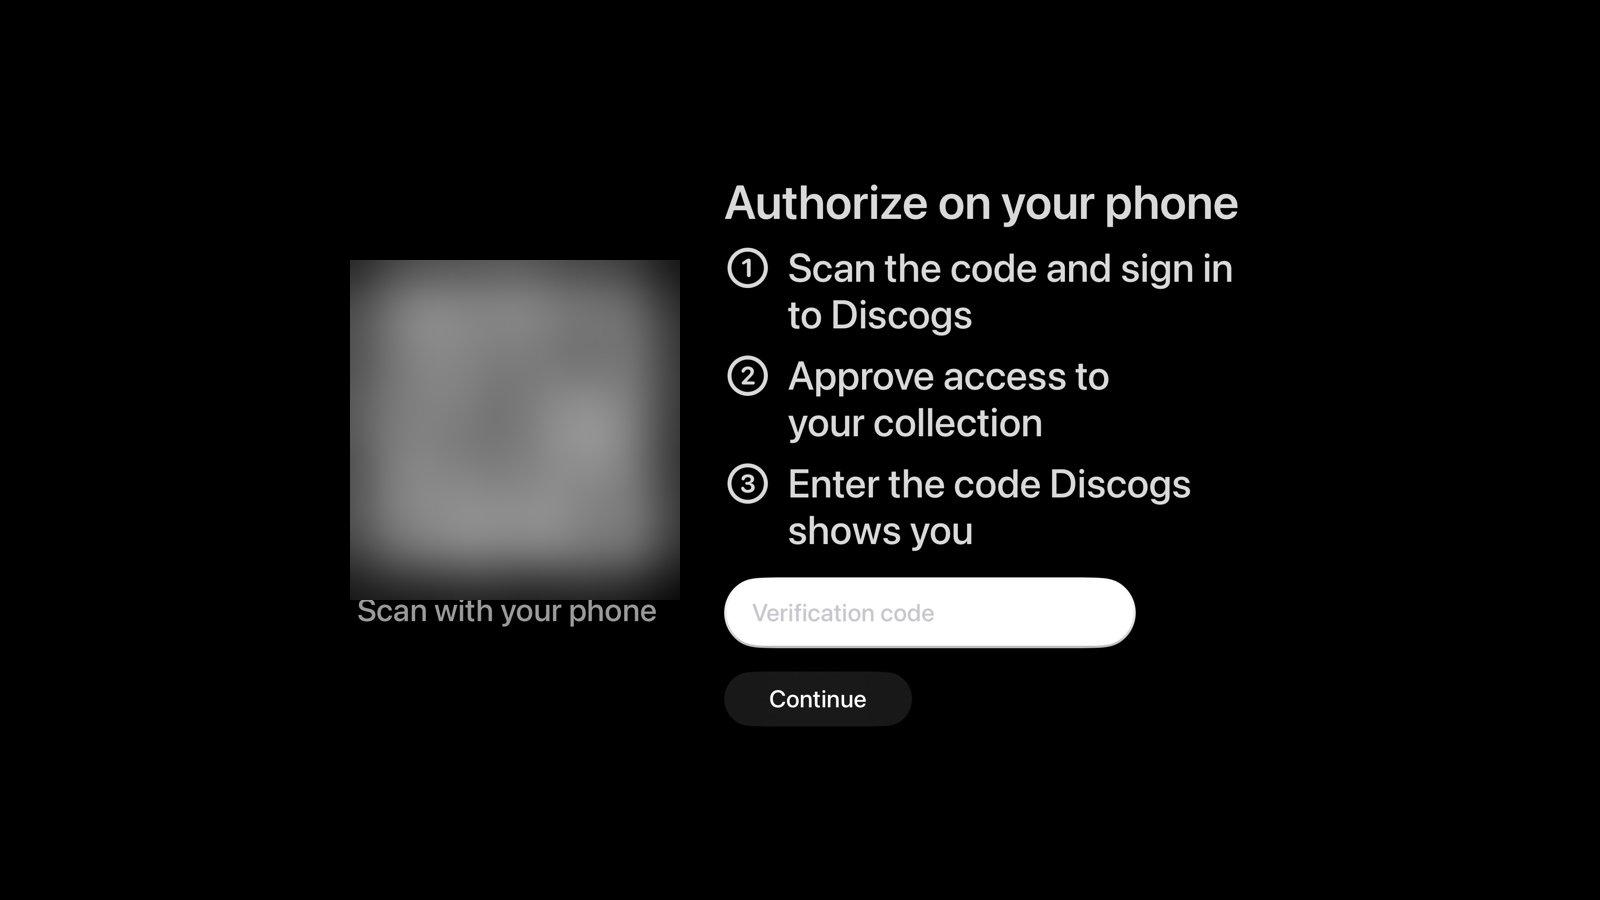
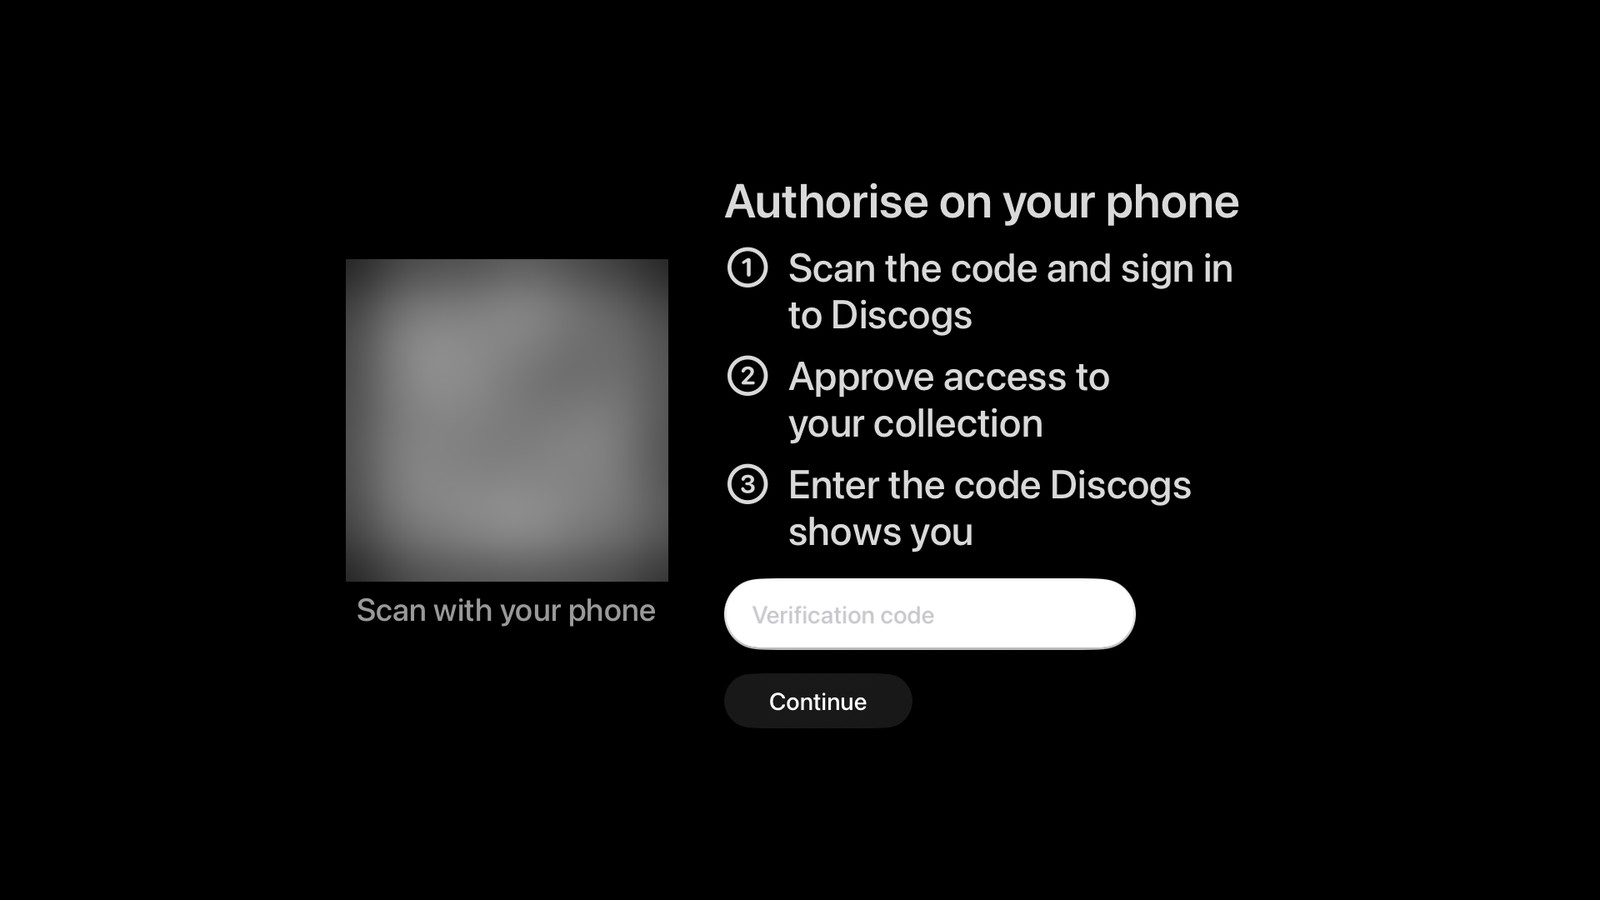
Reshoot the authorise screen in the guide
Retake the onboarding authorise screenshot from the current app, so the
heading reads Authorise on your phone, and blur only the QR square. The
guide's alt text now names the heading too.

diff --git a/docs/guide.html b/docs/guide.html
@@ -73,7 +73,7 @@
 
       <h2>Step 2. Look at the QR code</h2>
       <p>The TV now shows a square QR code (a pattern of black and white dots), a numbered list of what to do on your phone, and a white field labelled <code>Verification code</code>. Keep your phone ready. In the picture below, the code is blurred out.</p>
-      <img class="screen" src="assets/screens/onboarding/authorize.jpg" alt="The authorise screen with a blurred code on the left, captioned Scan with your phone, and three numbered steps on the right above an empty Verification code field and a Continue button.">
+      <img class="screen" src="assets/screens/onboarding/authorize.jpg" alt="The authorise screen with a blurred code on the left, captioned Scan with your phone, and on the right the heading Authorise on your phone, three numbered steps, an empty Verification code field and a Continue button.">
 
       <h2>Step 3. Scan the code with your phone</h2>
       <ol>
